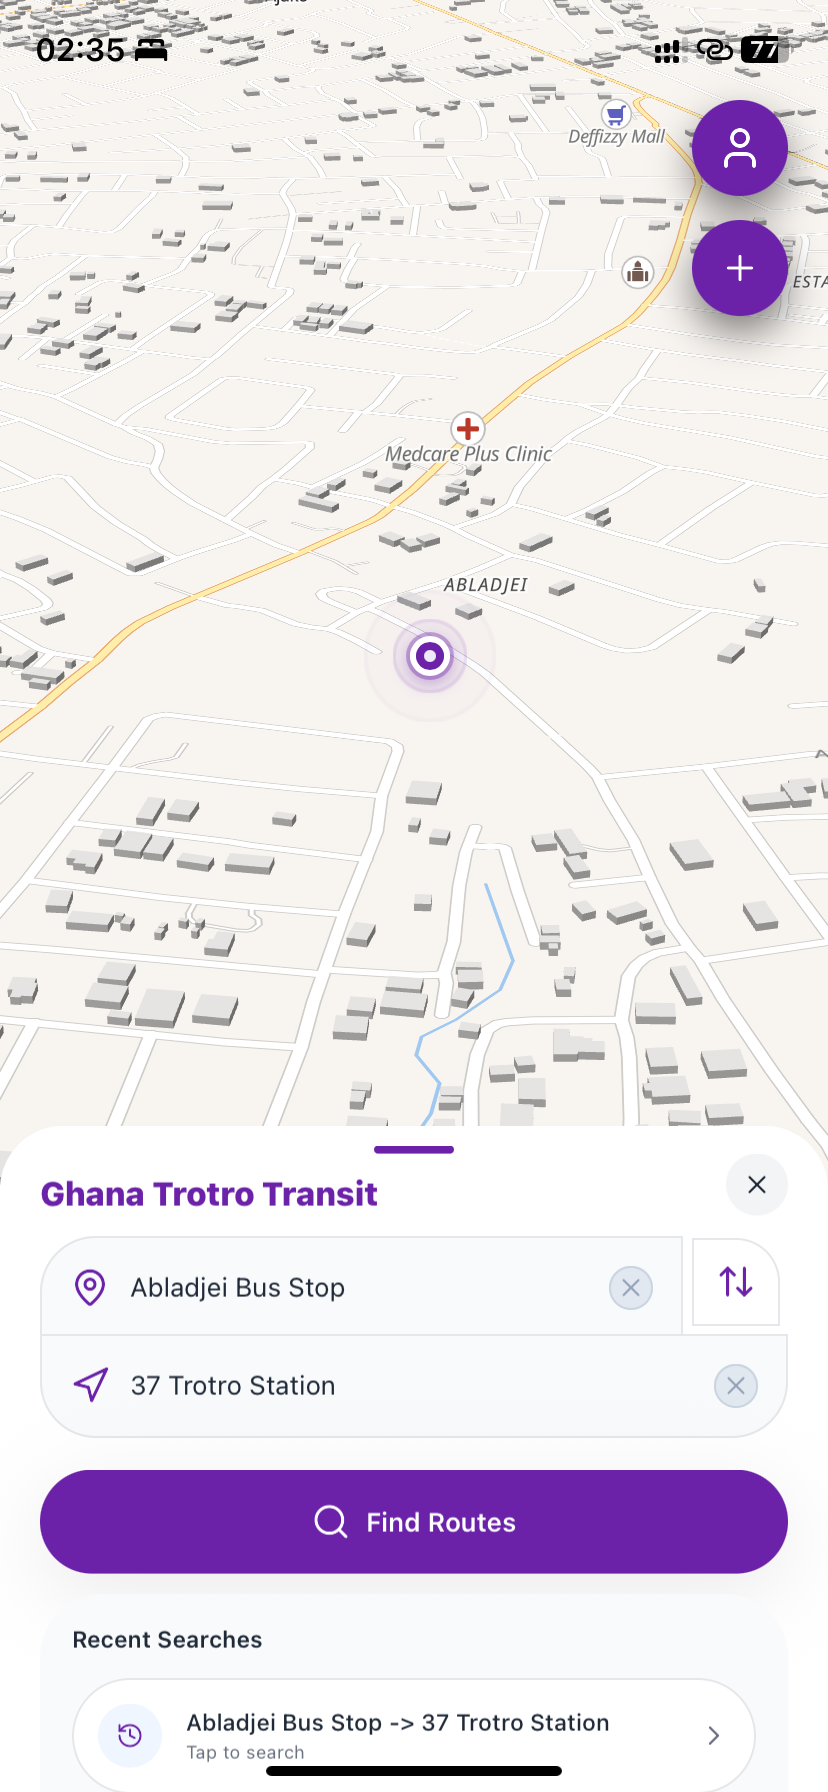
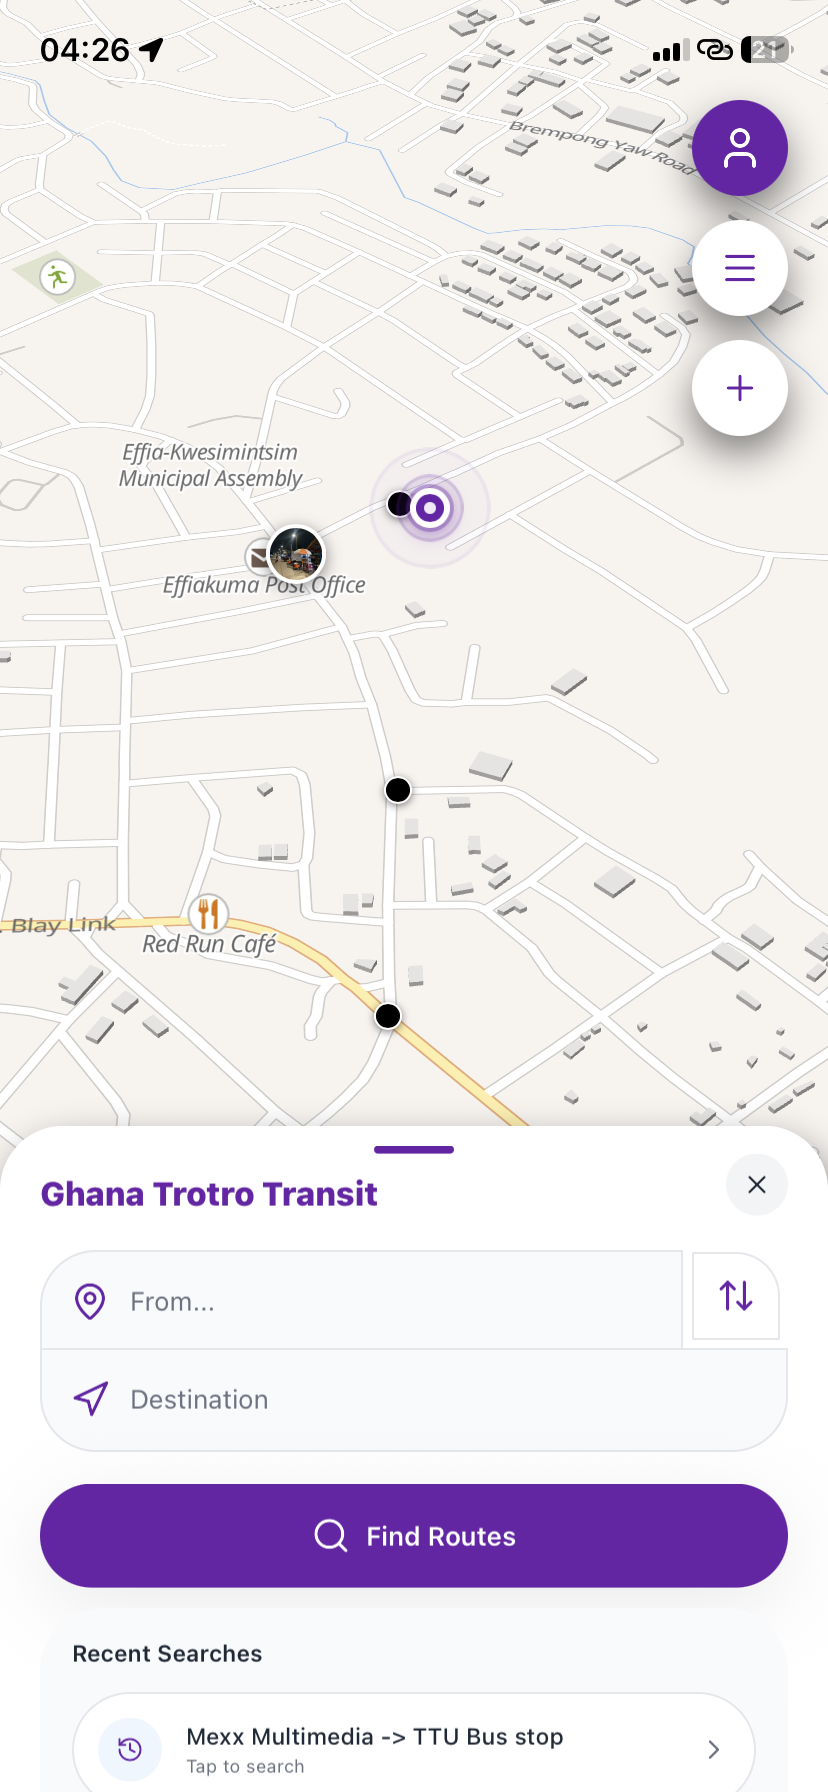
beta 6 update

diff --git a/index.html b/index.html
@@ -81,13 +81,23 @@
                                 <span class="px-2.5 py-1 bg-gray-700 text-white text-xs rounded-full whitespace-nowrap">21/05/26</span>
                             </div>
                         </div>
-                        <div class="beta-version-card active rounded-3xl p-4 cursor-pointer hover:border-purple-500/40" onclick="selectBeta('beta5')">
+                        <div class="beta-version-card rounded-3xl p-4 cursor-pointer hover:border-gray-500/40" onclick="selectBeta('beta5')">
                             <div class="flex items-center justify-between"><div class="flex items-center gap-3">
-                                <div class="w-10 h-10 rounded-full bg-purple-700 flex items-center justify-center text-xs font-bold text-white">5
+                                <div class="w-10 h-10 rounded-full bg-gray-700 flex items-center justify-center text-xs font-bold text-white">5
                                 </div>
-                                <div><h4 class="font-bold text-sm">Beta 5: Latest</h4><p class="text-xs text-gray-400">UI/UX · Security updates· Bug fixes</p></div>
+                                <div><h4 class="font-bold text-sm">Beta 5</h4><p class="text-xs text-gray-400">UI/UX · Security updates· Bug fixes</p></div>
                                 </div>
-                                <span class="px-2.5 py-1 bg-purple-700 text-white text-xs rounded-full whitespace-nowrap">12/07/26</span>
+                                <span class="px-2.5 py-1 bg-gray-700 text-white text-xs rounded-full whitespace-nowrap">12/07/26</span>
+                            </div>
+                        </div>
+
+                        <div class="beta-version-card active rounded-3xl p-4 cursor-pointer hover:border-purple-500/40" onclick="selectBeta('beta6')">
+                            <div class="flex items-center justify-between"><div class="flex items-center gap-3">
+                                <div class="w-10 h-10 rounded-full bg-purple-700 flex items-center justify-center text-xs font-bold text-white">6
+                                </div>
+                                <div><h4 class="font-bold text-sm">Beta 6: Latest</h4><p class="text-xs text-gray-400">UI/UX · Security updates· Waakye</p></div>
+                                </div>
+                                <span class="px-2.5 py-1 bg-purple-700 text-white text-xs rounded-full whitespace-nowrap">23/07/26</span>
                             </div>
                         </div>
                         
@@ -129,7 +139,7 @@
             </div>
         </div>
         <div id="downloadActions" class="border-t border-white/10 p-4 sm:p-6 flex-shrink-0">
-            <div class="flex items-center justify-between text-sm text-gray-400 mb-3"><span>Selected: <strong id="selectedVersion" class="text-white">Beta 5</strong></span><span id="fileSize"></span></div>
+            <div class="flex items-center justify-between text-sm text-gray-400 mb-3"><span>Selected: <strong id="selectedVersion" class="text-white">Beta 6</strong></span><span id="fileSize"></span></div>
             <div class="flex flex-col sm:flex-row gap-3">
                 <button onclick="startDownload()" id="downloadBtn" class="flex-1 py-3.5 bg-gradient-to-r from-green-600 to-emerald-600 hover:from-green-500 hover:to-emerald-500 rounded-3xl font-bold transition-all flex items-center justify-center gap-2 text-white group"><i class="fas fa-download group-hover:animate-bounce"></i><span>Download APK</span></button>
                 <a href="routes-you-can-find.html" target="_blank" class="flex-1 py-3.5 bg-white/10 hover:bg-white/20 border border-white/20 rounded-3xl font-semibold transition-all flex items-center justify-center gap-2"><i class="fas fa-map-marked-alt text-purple-400"></i><span>View Routes</span></a>
@@ -206,33 +216,9 @@
             <div class="relative flex items-center justify-center">
                 <div class="absolute inset-0 bg-gradient-to-r from-purple-500/20 to-pink-500/20 rounded-full blur-3xl"></div>
                 <div class="absolute bottom-0 left-0 right-0 h-16 bg-slate-800/50 rounded-full blur-xl"></div>
-                <div class="absolute bottom-6 left-0 right-0 h-1.5 bg-slate-700/50"><div class="h-full w-16 bg-yellow-400/50 rounded-full road-line absolute"></div></div>
+               
                 <div class="relative z-10 trotro-animate trotro-shadow w-full max-w-xs sm:max-w-md">
-                    <svg viewBox="0 0 400 240" class="w-full h-auto drop-shadow-2xl">
-                        <ellipse cx="200" cy="220" rx="160" ry="14" fill="rgba(0,0,0,0.3)" filter="blur(6px)"/>
-                        <g transform="translate(20,20)">
-                            <rect x="20" y="80" width="320" height="110" rx="18" ry="18" fill="#f97316"/>
-                            <rect x="20" y="80" width="320" height="35" rx="10" ry="10" fill="#ea580c"/>
-                            <rect x="30" y="88" width="70" height="25" rx="6" ry="6" fill="#bae6fd" opacity="0.8"/>
-                            <rect x="115" y="88" width="70" height="25" rx="6" ry="6" fill="#bae6fd" opacity="0.8"/>
-                            <rect x="200" y="88" width="70" height="25" rx="6" ry="6" fill="#bae6fd" opacity="0.8"/>
-                            <rect x="280" y="88" width="55" height="25" rx="6" ry="6" fill="#bae6fd" opacity="0.9"/>
-                            <circle cx="75" cy="195" r="25" fill="#1e293b"/>
-                            <circle cx="75" cy="195" r="17" fill="#64748b"/>
-                            <circle cx="75" cy="195" r="8" fill="#334155"/>
-                            <circle cx="270" cy="195" r="25" fill="#1e293b"/>
-                            <circle cx="270" cy="195" r="17" fill="#64748b"/>
-                            <circle cx="270" cy="195" r="8" fill="#334155"/>
-                            <circle cx="330" cy="135" r="8" fill="#fef3c7"/>
-                            <circle cx="330" cy="135" r="5" fill="#fbbf24"/>
-                            <rect x="15" y="125" width="8" height="14" fill="#dc2626" rx="2"/>
-                            <text x="180" y="165" text-anchor="middle" font-family="Arial" font-size="26" fill="#7c2d12" font-weight="bold">TROTRO</text>
-                            <rect x="335" y="155" width="10" height="14" fill="#64748b" rx="2"/>
-                            <rect x="15" y="155" width="10" height="14" fill="#64748b" rx="2"/>
-                        </g>
-                        <g class="float-animation"><path d="M 100 30 Q 100 10 115 10 Q 130 10 130 30 Q 130 45 115 60 Q 100 45 100 30 Z" fill="#7c3aed" stroke="#a855f7" stroke-width="2"/><circle cx="115" cy="28" r="8" fill="white"/><text x="115" y="32" text-anchor="middle" font-size="11" fill="#7c3aed" font-weight="bold">A</text></g>
-                        <g class="float-animation" style="animation-delay:1s"><path d="M 300 40 Q 300 20 315 20 Q 330 20 330 40 Q 330 55 315 70 Q 300 55 300 40 Z" fill="#22c55e" stroke="#4ade80" stroke-width="2"/><circle cx="315" cy="38" r="8" fill="white"/><text x="315" y="42" text-anchor="middle" font-size="11" fill="#22c55e" font-weight="bold">B</text></g>
-                    </svg>
+                    <img src="assets/trotro-vehicle.png" height="600px" width="700px" alt="GTT-Trotro">
                 </div>
                 <div class="hero-float-card absolute -left-2 sm:-left-4 top-8 sm:top-10 bg-white/10 backdrop-blur-md rounded-3xl p-2.5 sm:p-3 border border-white/20 float-animation shadow-xl"><div class="flex items-center gap-2"><div class="w-7 h-7 rounded-full bg-green-500 flex items-center justify-center"><i class="fas fa-check text-white text-xs"></i></div><div><div class="text-xs font-bold">Route Found</div><div class="text-[10px] text-gray-300">Circle to Madina</div></div></div></div>
                 <div class="hero-float-card absolute -right-2 sm:-right-4 bottom-16 sm:bottom-20 bg-white/10 backdrop-blur-md rounded-3xl p-2.5 sm:p-3 border border-white/20 float-animation shadow-xl" style="animation-delay:0.5s"><div class="flex items-center gap-2"><i class="fas fa-cedi-sign text-yellow-400"></i><div><div class="text-xs font-bold">9.50</div><div class="text-[10px] text-gray-300">Estimated Fare</div></div></div></div>
@@ -254,7 +240,7 @@
         <div class="mobile-carousel-container md:hidden mb-8" data-carousel="problem">
             <div class="mobile-carousel-track">
                 <div class="mobile-carousel-card"><div class="problem-card rounded-3xl p-5 sm:p-8 h-full"><div class="w-12 h-12 sm:w-16 sm:h-16 bg-purple-500/20 rounded-3xl flex items-center justify-center mb-4 sm:mb-6"><i class="fas fa-road text-2xl sm:text-3xl text-white-400"></i></div><h3 class="text-base sm:text-xl font-bold mb-2 sm:mb-3 text-white-500">Beyond Google Maps</h3><p class="text-gray-400 leading-relaxed text-sm">Google shows direct routes A to B. Our app provides detailed trotro routes with all intermediate stops, stations, and junctions specific to Ghana's transit system.</p></div></div>
-                <div class="mobile-carousel-card"><div class="problem-card rounded-3xl p-5 sm:p-8 h-full"><div class="w-12 h-12 sm:w-16 sm:h-16 bg-purple-500/20 rounded-3xl flex items-center justify-center mb-4 sm:mb-6"><i class="fas fa-hand-holding-usd text-2xl sm:text-3xl text-white-400"></i></div><h3 class="text-base sm:text-xl font-bold mb-2 sm:mb-3 text-white-500">Never Get Stranded</h3><p class="text-gray-400 leading-relaxed text-sm">With real-time guidance, stop notifications, and route tracking, you will always know exactly where to go — no more asking strangers or getting lost.</p></div></div>
+                <div class="mobile-carousel-card"><div class="problem-card rounded-3xl p-5 sm:p-8 h-full"><div class="w-12 h-12 sm:w-16 sm:h-16 bg-purple-500/20 rounded-3xl flex items-center justify-center mb-4 sm:mb-6"><i class="fas fa-hand-holding-usd text-2xl sm:text-3xl text-white-400"></i></div><h3 class="text-base sm:text-xl font-bold mb-2 sm:mb-3 text-white-500">Never Get Stranded</h3><p class="text-gray-400 leading-relaxed text-sm">With real-time guidance, stop notifications, and route tracking, you will always know exactly where to go, no more asking strangers or getting lost.</p></div></div>
                 <div class="mobile-carousel-card"><div class="problem-card rounded-3xl p-5 sm:p-8 h-full"><div class="w-12 h-12 sm:w-16 sm:h-16 bg-purple-500/20 rounded-3xl flex items-center justify-center mb-4 sm:mb-6"><i class="fas fa-money-bill-wave text-2xl sm:text-3xl text-white-400"></i></div><h3 class="text-base sm:text-xl font-bold mb-2 sm:mb-3 text-white-500">Transparent Fares</h3><p class="text-gray-400 leading-relaxed text-sm">Get real-time fare updates directly from GPRTU. Know the exact fare before boarding, avoid conflicts, and plan your budget accurately.</p></div></div>
             </div>
             <div class="carousel-dots flex justify-center gap-2 mt-4"></div>
@@ -262,7 +248,7 @@
         <!-- Desktop Grid -->
         <div class="hidden md:grid md:grid-cols-3 gap-5 sm:gap-8">
             <div class="problem-card rounded-3xl p-5 sm:p-8 hover:transform hover:scale-105 transition-all duration-300"><div class="w-12 h-12 sm:w-16 sm:h-16 bg-purple-500/20 rounded-3xl flex items-center justify-center mb-4 sm:mb-6"><i class="fas fa-road text-2xl sm:text-3xl text-white-400"></i></div><h3 class="text-base sm:text-xl font-bold mb-2 sm:mb-3 text-white-500">Beyond Google Maps</h3><p class="text-gray-400 leading-relaxed text-sm">Google shows direct routes A to B. Our app provides detailed trotro routes with all intermediate stops, stations, and junctions specific to Ghana's transit system.</p></div>
-            <div class="problem-card rounded-3xl p-5 sm:p-8 hover:transform hover:scale-105 transition-all duration-300"><div class="w-12 h-12 sm:w-16 sm:h-16 bg-purple-500/20 rounded-3xl flex items-center justify-center mb-4 sm:mb-6"><i class="fas fa-hand-holding-usd text-2xl sm:text-3xl text-white-400"></i></div><h3 class="text-base sm:text-xl font-bold mb-2 sm:mb-3 text-white-500">Never Get Stranded</h3><p class="text-gray-400 leading-relaxed text-sm">With real-time guidance, stop notifications, and route tracking, you will always know exactly where to go — no more asking strangers or getting lost.</p></div>
+            <div class="problem-card rounded-3xl p-5 sm:p-8 hover:transform hover:scale-105 transition-all duration-300"><div class="w-12 h-12 sm:w-16 sm:h-16 bg-purple-500/20 rounded-3xl flex items-center justify-center mb-4 sm:mb-6"><i class="fas fa-hand-holding-usd text-2xl sm:text-3xl text-white-400"></i></div><h3 class="text-base sm:text-xl font-bold mb-2 sm:mb-3 text-white-500">Never Get Stranded</h3><p class="text-gray-400 leading-relaxed text-sm">With real-time guidance, stop notifications, and route tracking, you will always know exactly where to go, no more asking strangers or getting lost.</p></div>
             <div class="problem-card rounded-3xl p-5 sm:p-8 hover:transform hover:scale-105 transition-all duration-300 sm:col-span-2 md:col-span-1"><div class="w-12 h-12 sm:w-16 sm:h-16 bg-purple-500/20 rounded-3xl flex items-center justify-center mb-4 sm:mb-6"><i class="fas fa-money-bill-wave text-2xl sm:text-3xl text-white-400"></i></div><h3 class="text-base sm:text-xl font-bold mb-2 sm:mb-3 text-white-500">Transparent Fares</h3><p class="text-gray-400 leading-relaxed text-sm">Get real-time fare updates directly from GPRTU. Know the exact fare before boarding, avoid conflicts, and plan your budget accurately.</p></div>
         </div>
         <div class="mt-10 sm:mt-16 bg-slate-800/50 rounded-3xl sm:rounded-3xl p-6 sm:p-8 md:p-12 border border-purple-500/20" id="numbers-box">
@@ -330,7 +316,7 @@
         <div class="preview-scroll-wrap mb-8 sm:mb-14">
             <div class="preview-scroll-item preview-card phone-frame cursor-pointer" onclick="openPreview(0)"><div class="phone-screen aspect-[9/19]"><div class="phone-notch"></div><img src="assets/phone-images/homescreen.PNG" alt="Home Screen" class="w-full h-full object-cover"></div><div class="mt-3 text-center px-1"><h4 class="font-semibold text-xs sm:text-sm">Home Screen</h4><p class="text-xs text-gray-400 mt-0.5">Wide map view</p></div></div>
             <div class="preview-scroll-item preview-card phone-frame cursor-pointer" onclick="openPreview(1)"><div class="phone-screen aspect-[9/19]"><div class="phone-notch"></div><img src="assets/phone-images/findroutes.PNG" alt="Route Search" class="w-full h-full object-cover"></div><div class="mt-3 text-center px-1"><h4 class="font-semibold text-xs sm:text-sm">Route Search</h4><p class="text-xs text-gray-400 mt-0.5">Search across Ghana</p></div></div>
-            <div class="preview-scroll-item preview-card phone-frame cursor-pointer" onclick="openPreview(2)"><div class="phone-screen aspect-[9/19]"><div class="phone-notch"></div><img src="assets/phone-images/foundroutes.jpeg" alt="Live Navigation" class="w-full h-full object-cover"></div><div class="mt-3 text-center px-1"><h4 class="font-semibold text-xs sm:text-sm">Live Navigation</h4><p class="text-xs text-gray-400 mt-0.5">Real-time tracking</p></div></div>
+            <div class="preview-scroll-item preview-card phone-frame cursor-pointer" onclick="openPreview(2)"><div class="phone-screen aspect-[9/19]"><div class="phone-notch"></div><img src="assets/phone-images/foundroutes.PNG" alt="Live Navigation" class="w-full h-full object-cover"></div><div class="mt-3 text-center px-1"><h4 class="font-semibold text-xs sm:text-sm">Live Navigation</h4><p class="text-xs text-gray-400 mt-0.5">Real-time tracking</p></div></div>
             <div class="preview-scroll-item preview-card phone-frame cursor-pointer" onclick="openPreview(3)"><div class="phone-screen aspect-[9/19]"><div class="phone-notch"></div><img src="assets/phone-images/savedroutes.PNG" alt="Saved Routes" class="w-full h-full object-cover"></div><div class="mt-3 text-center px-1"><h4 class="font-semibold text-xs sm:text-sm">Saved Routes</h4><p class="text-xs text-gray-400 mt-0.5">Quick favourites</p></div></div>
             <div class="preview-scroll-item preview-card phone-frame cursor-pointer" onclick="openPreview(4)"><div class="phone-screen aspect-[9/19]"><div class="phone-notch"></div><img src="assets/phone-images/createroute.PNG" alt="Custom Routes" class="w-full h-full object-cover"></div><div class="mt-3 text-center px-1"><h4 class="font-semibold text-xs sm:text-sm">Custom Routes</h4><p class="text-xs text-gray-400 mt-0.5">Create &amp; share</p></div></div>
         </div>
@@ -400,7 +386,7 @@
                 <p class="text-gray-400 text-sm">See Ghana Trotro Transit in action</p>
             </div>
             <div class="video-container" id="videoContainer" style="aspect-ratio:9/16; max-width:400px; height:auto; margin:0 auto;">
-                <iframe id="demoVideo" src="https://drive.google.com/file/d/1-dVdOWJdBjHbNXywGHMdpUAMaDUrrRW3/preview" title="Ghana Trotro Transit Demo Video" style="width:100%; height:100%; border:0; border-radius:1rem;" allow="autoplay" allowfullscreen></iframe>
+                <iframe id="demoVideo" src="https://drive.google.com/file/d/19t4WEqpLocDijBplaMAL97JHVleLkFsq/view?usp=sharing" title="Ghana Trotro Transit Demo Video" style="width:100%; height:100%; border:0; border-radius:1rem;" allow="autoplay" allowfullscreen></iframe>
             </div>
         </div>
     </div>
@@ -444,7 +430,7 @@
             <div class="platform-card bg-slate-800/50 backdrop-blur border border-green-500/30 rounded-3xl p-6 sm:p-8 hover:border-green-500 transition-all duration-300 group" data-platform="android">
                 <div class="w-16 h-16 sm:w-20 sm:h-20 mx-auto bg-green-500/20 rounded-3xl flex items-center justify-center mb-4 sm:mb-6 platform-icon group-hover:scale-110 transition-transform"><i class="fab fa-android text-4xl sm:text-5xl text-green-500"></i></div>
                 <h3 class="text-lg sm:text-xl font-bold mb-2">Android</h3>
-                <p class="text-gray-400 text-xs sm:text-sm mb-5 sm:mb-6">Download APK<br>Version aaya! - Beta 5<br></p>
+                <p class="text-gray-400 text-xs sm:text-sm mb-5 sm:mb-6">Download APK<br>Version aaya! - Beta 6<br></p>
                 <button onclick="openDownloadModal(); selectPlatform('android');" class="w-full py-3 bg-green-600 hover:bg-green-700 rounded-3xl font-semibold transition-colors flex items-center justify-center gap-2 text-white text-sm"><i class="fas fa-download"></i><span>Download</span></button>
             </div>
             <div class="platform-card bg-slate-800/50 backdrop-blur border border-gray-300/20 rounded-3xl p-6 sm:p-8 hover:border-gray-400 transition-all duration-300 group opacity-80" data-platform="ios">

diff --git a/things/scripts.js b/things/scripts.js
@@ -2,7 +2,7 @@
 const previewData = [
     { title:"Home Screen", desc:"Simple wide map view", src:"../assets/phone-images/homescreen.PNG", alt:"Home Screen" },
     { title:"Route Search & Recents", desc:"Search for routes across Ghana", src:"../assets/phone-images/findroutes.PNG", alt:"Route Search" },
-    { title:"Live Navigation", desc:"Real-time tracking with stop alerts", src:"../assets/phone-images/foundroutes.jpeg", alt:"Navigation" },
+    { title:"Live Navigation", desc:"Real-time tracking with stop alerts", src:"../assets/phone-images/foundroutes.PNG", alt:"Navigation" },
     { title:"Saved Routes", desc:"Save and quickly access frequent journeys", src:"../assets/phone-images/savedroutes.PNG", alt:"Saved Routes" },
     { title:"Create Personal Routes", desc:"Create & share custom routes", src:"../assets/phone-images/createroute.PNG", alt:"Custom Routes" }
 ];
@@ -130,9 +130,9 @@ function selectPlatform(platform) {
 }
 
 
-showToast('Beta 5 now available', 'Beta 5 is now available for download. Click the dwownload button to get the latest update.')
+setTimeout(() => showToast('Beta 6 now available', 'Beta 6 is now available for download. Click the download button to get the latest update.'), 5000);
 
-let fileSize = '92.7';
+let fileSize = '97';
 document.getElementById('fileSize').textContent = 'Size: '+fileSize + ' MB';
 
 function selectBeta(version) {
@@ -141,22 +141,30 @@ function selectBeta(version) {
         return;
     }
     if (version === 'beta4') {
-        document.getElementById('fileSize').textContent = 'Size: 92.2 MB';
-        showToast('Beta 4 - May not have new features.', 'Consider downloading Beta 5.');
+        document.getElementById('fileSize').textContent = 'Size: 92.7 MB';
+        setTimeout(() => showToast('Beta 4 - May not have new features.', 'Consider downloading Beta 5.'), 5000);
+    }
+    if (version === 'beta5') {
+        document.getElementById('fileSize').textContent = 'Size: 92.3 MB';
+        setTimeout(() => showToast('Beta 5 - May not have new features.', 'Consider downloading Beta 6.'), 5000);
+    }
+    if (version === 'beta6') {
+        document.getElementById('fileSize').textContent = 'Size: 97 MB';
     }
     selectedBeta = version;
     document.querySelectorAll('.beta-version-card').forEach(c => c.classList.remove('active'));
     event.currentTarget.classList.add('active');
-    const names = { beta4:'Beta 4', beta5:'Beta 5' };
+    const names = { beta4:'Beta 4', beta5:'Beta 5', beta6: 'Beta 6' };
     document.getElementById('selectedVersion').textContent = names[version] || version;
 }
 
 function startDownload() {
     const urls = {
         beta4: 'https://drive.google.com/file/d/1EWc3IU3zlIrNCTp6qI6oVw02hy-rnvR9/view?usp=drive_link',
-        beta5: 'https://drive.google.com/file/d/1JQn5l6xSKfO5croysU9JCjwtIVWdoShq/view?usp=drive_link'
+        beta5: 'https://drive.google.com/file/d/1JQn5l6xSKfO5croysU9JCjwtIVWdoShq/view?usp=drive_link',
+        beta6: 'https://drive.google.com/file/d/1e7vb4PHwqyv1mVIQqmb5l_tE0cv_54ji/view?usp=drive_link'
     };
-    const versionNames = { beta4:'Beta 4', beta5:'Beta 5' };
+    const versionNames = { beta4:'Beta 4', beta5:'Beta 5', beta6:'Beta 6' };
 
     if (!urls[selectedBeta]) {
         setTimeout(() => showToast('Version Unavailable', 'This version is not available. Please select a different version.'), 8000);